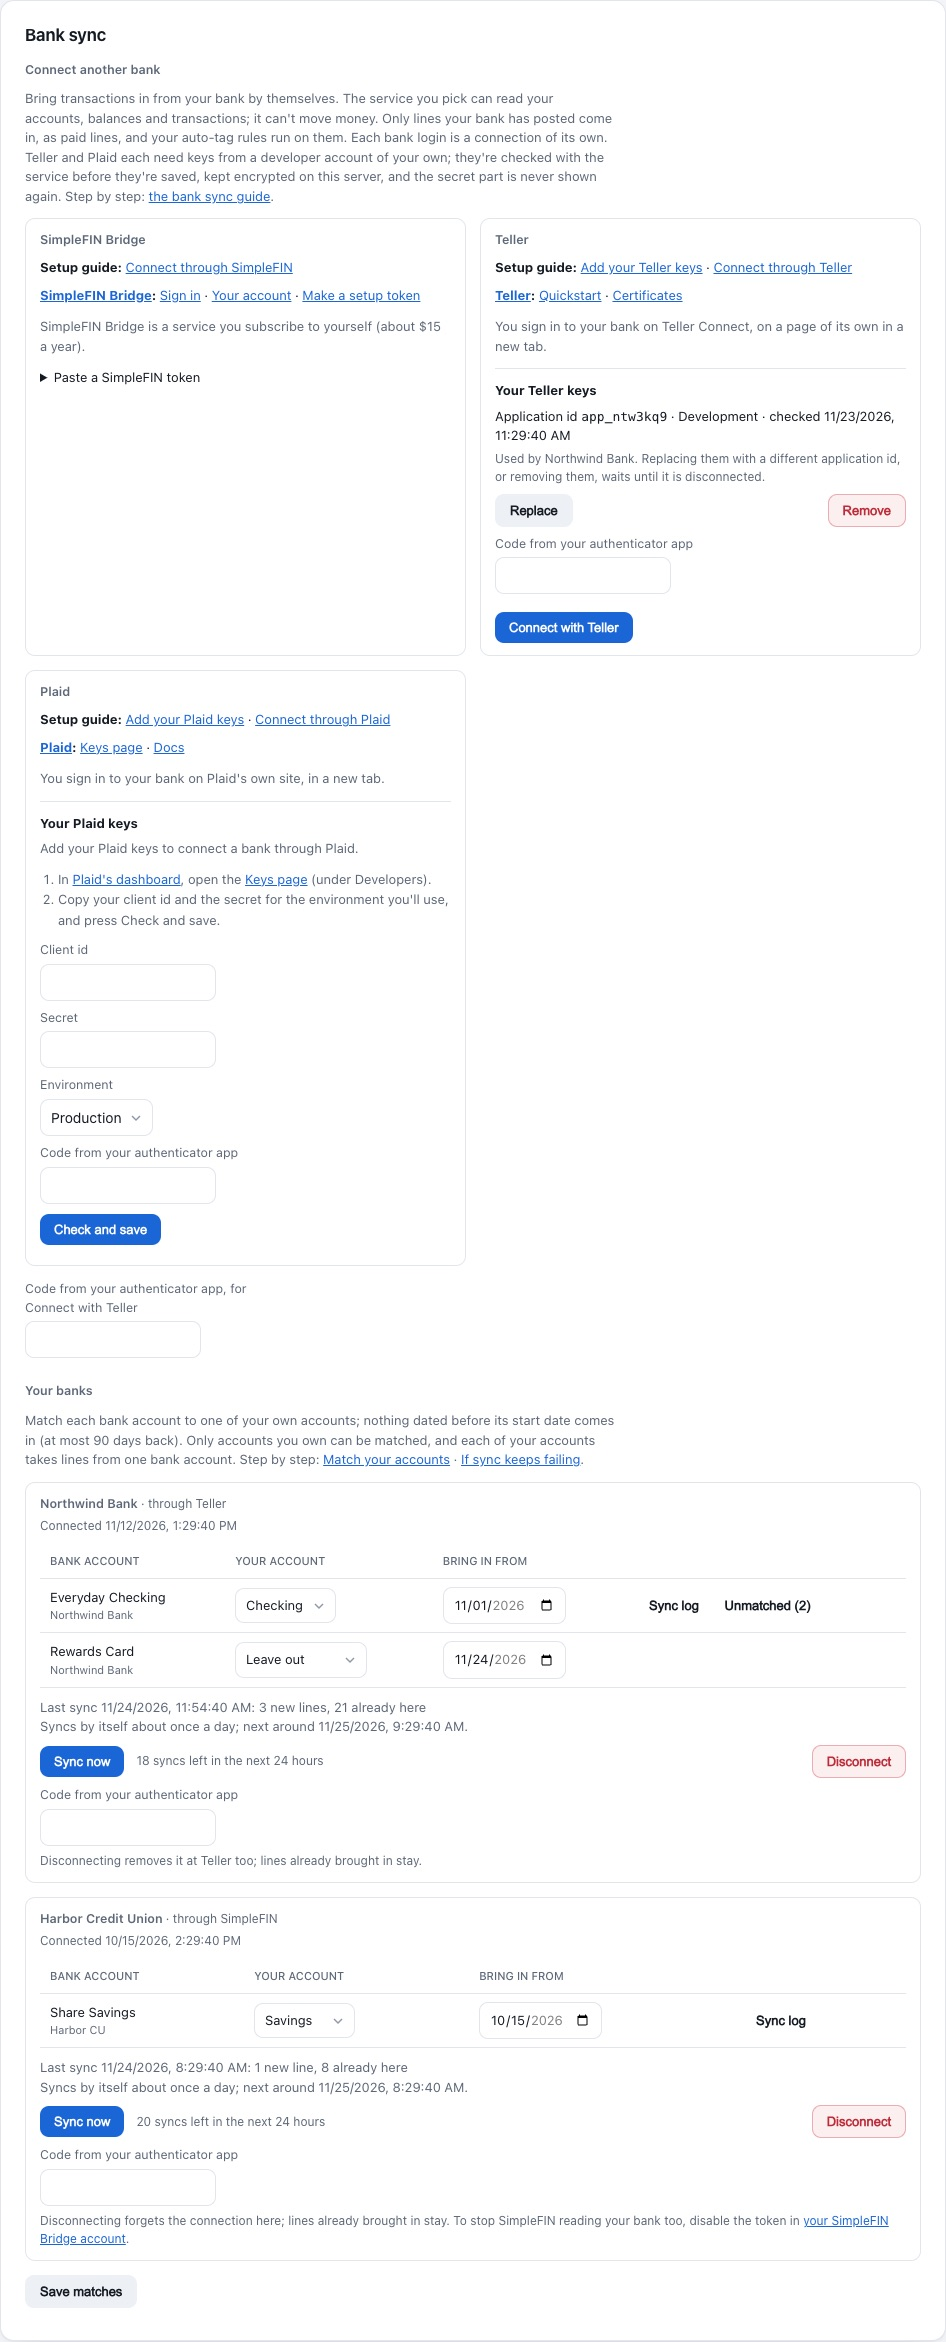
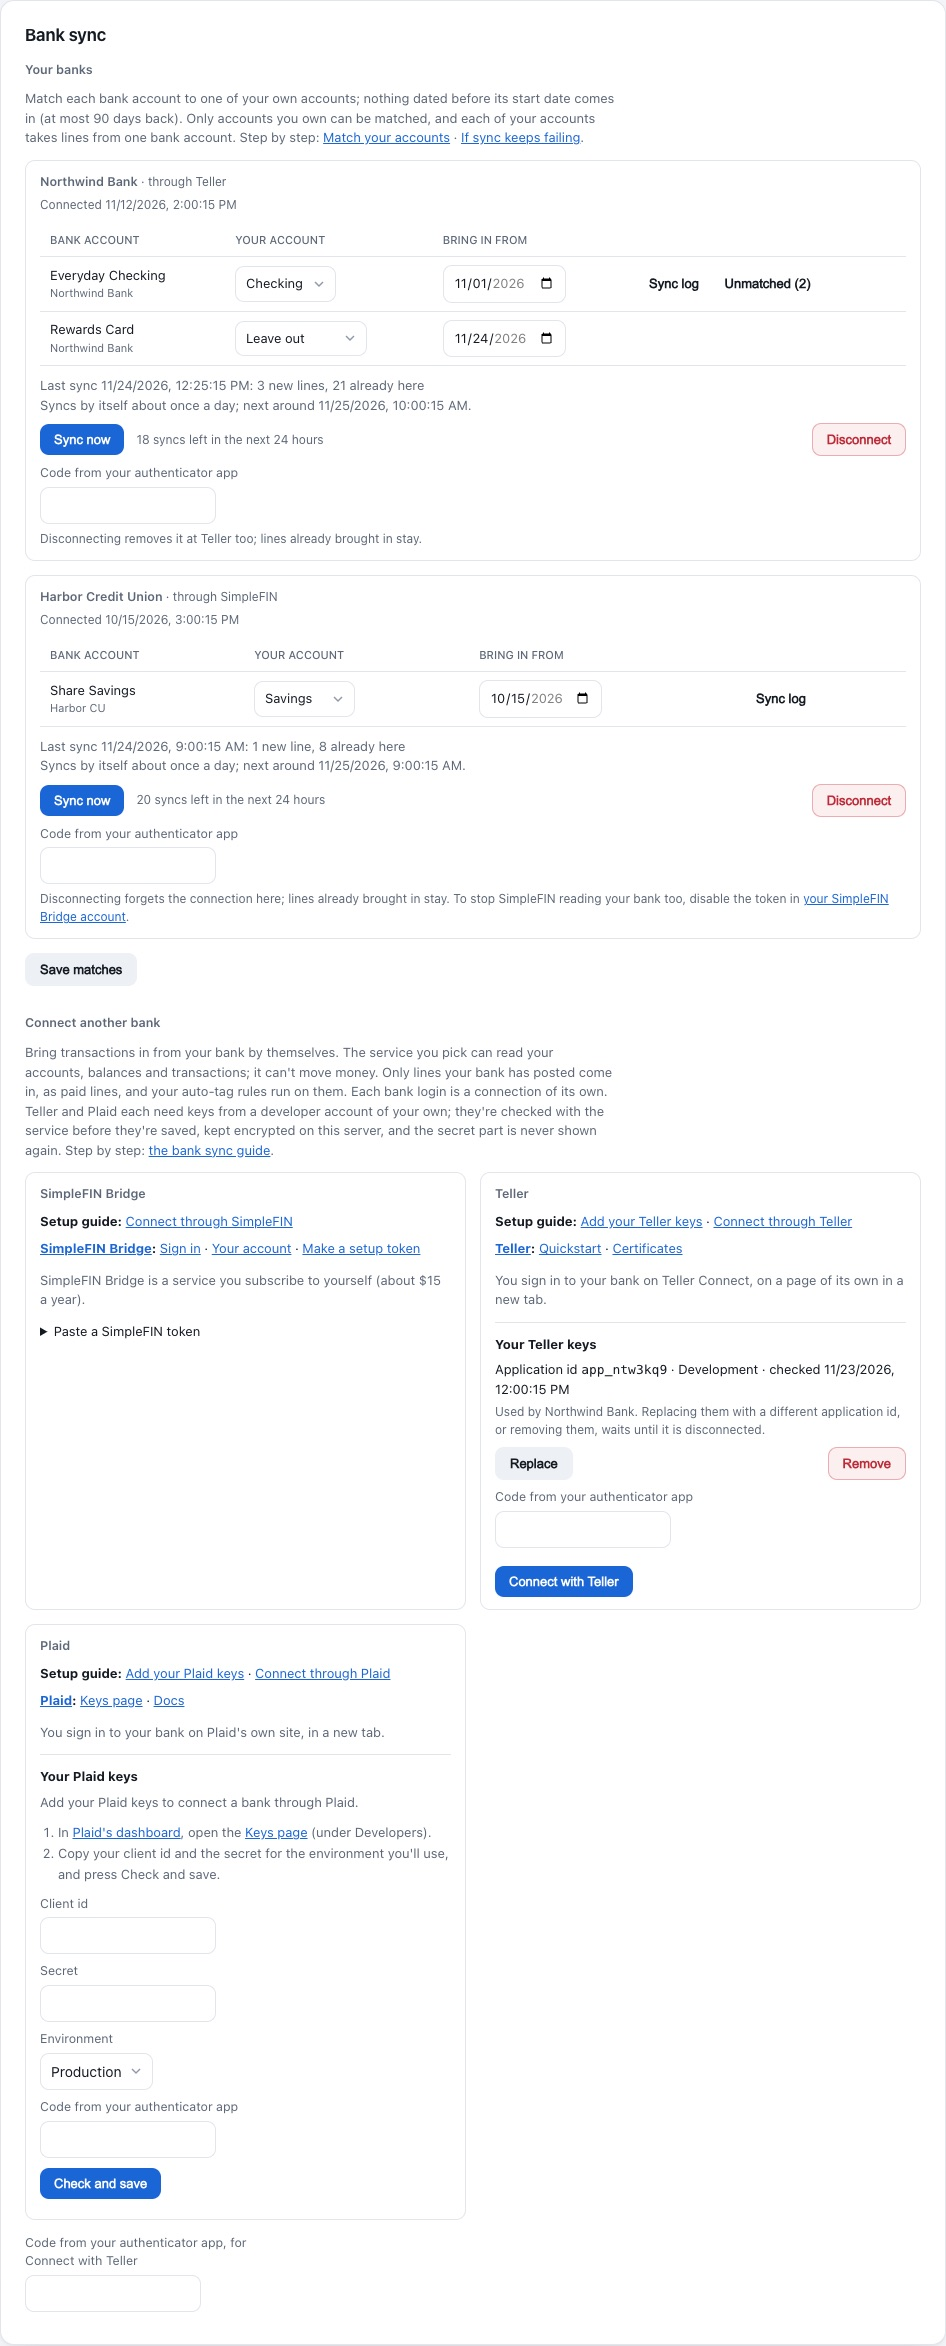
Web 1.117.0: your banks first, the cards to connect another below (#343)

diff --git a/apps/web/index.html b/apps/web/index.html
@@ -3164,7 +3164,7 @@ const WEB_VERSION = "1.117.0";
 //
 // When you bump WEB_VERSION, add the matching line here. Do not rewrite
 // history — only append new entries.
-// 1.117.0 (2026-11-24, claude+mkolakowski): (#342, #343) Settings → Bank sync: one card per provider (SimpleFIN Bridge, Teller, Plaid; _bankConnectHtml) holding its setup guide line (_bankGuideHtml from BANK_GUIDE_STEPS: Through SimpleFIN, Add your own Teller or Plaid keys, Through Teller or Plaid), its own pages (_bankProviderLinks(key, true) leaves the guide out), its keys (_bankKeysCardHtml now an inner .bank-keys block; _bankKeysHtml became _bankKeysShown) and its Connect. Connected banks follow under "Your banks" with Match your accounts and If sync keeps failing links. .bank-grid lays providers ~300px and banks ~620px each, side by side as room allows, and the Settings column widens to 1600px while Bank sync is shown on a window 1000px or wider. The shared connect code field names what it's for.
+// 1.117.0 (2026-11-24, claude+mkolakowski): (#342, #343) Settings → Bank sync: one card per provider (SimpleFIN Bridge, Teller, Plaid; _bankConnectHtml, after the connected banks) holding its setup guide line (_bankGuideHtml from BANK_GUIDE_STEPS: Through SimpleFIN, Add your own Teller or Plaid keys, Through Teller or Plaid), its own pages (_bankProviderLinks(key, true) leaves the guide out), its keys (_bankKeysCardHtml now an inner .bank-keys block; _bankKeysHtml became _bankKeysShown) and its Connect. Connected banks come first, under "Your banks", with Match your accounts and If sync keeps failing links. .bank-grid lays providers ~300px and banks ~620px each, side by side as room allows, and the Settings column widens to 1600px while Bank sync is shown on a window 1000px or wider. The shared connect code field names what it's for.
 // 1.116.1 (2026-11-24, claude+mkolakowski): (#336) Links to the bank sync guide on GitHub Pages. BANK_GUIDE is the guide's address; BANK_PROVIDERS entries carry `guide` (SimpleFIN: #through-simplefin) or a 'WalletWeather guide' link (Teller, Plaid: #add-your-own-teller-or-plaid-keys) that _bankProviderLinks draws, and Connect a bank says "Step by step: the bank sync guide".
 // 1.116.0 (2026-11-24, claude+mkolakowski): (#334) Bank sync setup links and a card per provider. BANK_PROVIDERS gains teller and plaid (name, home, links[]); _bankProviderLinks draws a provider's `links` when it has them. The Teller and Plaid key steps link to the provider's dashboard, quickstart, certificates and Keys pages (_bankLink). _bankConnectHtml draws Teller, Plaid and SimpleFIN Bridge each as a bordered .bank-provider card (title, provider links, what it does, its connect button; SimpleFIN's token form stays inside its card), the same look as the .bank-keys cards.
 // 1.115.3 (2026-11-23, claude+mkolakowski): (#292) two design calls from the code review: Settings and Admin open with a real <h1> in a .settings-nav wrapper that holds the heading and the tab list (it replaces the ::before text on .settings-tabs; on a wide window the wrapper is the sticky left column, the heading 26px; on a phone the heading is 22px above the scrolling tabs), and the wide-window active section in the list uses the 10% tint with --accent-ink like the other pills (it was left at 15% and --accent); a Calendar event with no category colour gets class uncat and shows its kind by a tint (green in, red out, an outline for a transfer; on a phone its colour bar takes the kind's colour).
@@ -10204,13 +10204,12 @@ async function loadBank() {
   }
   const conns = bankState.connections || [];
   const anyAccounts = conns.some(c => (c.accounts || []).length);
-  // One card per provider to set it up, then the banks already connected
-  // (#343, decided 2026-11-24: setup cards side by side, banks below).
+  // The banks already connected, then one card per provider to connect
+  // another (#343, decided 2026-11-24: cards side by side; the banks first).
   const providersHtml = _bankConnectHtml(conns.length > 0);
-  body.innerHTML = providersHtml
-    + (!providersHtml && bankState.enabled ? `<p style="color:var(--muted);font-size:13px;margin:0 0 16px">An admin hasn't let you connect ${conns.length ? 'another bank' : 'a bank of your own'}. They can in Admin → Users.</p>` : '')
-    + (conns.length ? `
-      <h3 class="backup-subhead" style="margin-top:${providersHtml ? 24 : 0}px">Your banks</h3>
+  const above = conns.length > 0 || shared.length > 0;
+  body.innerHTML = (conns.length ? `
+      <h3 class="backup-subhead" style="margin-top:0">Your banks</h3>
       <p style="color:var(--muted);margin:0 0 12px;font-size:13px">
         Match each bank account to one of your own accounts; nothing dated before its start date comes in
         (at most ${bankState.start_max_days} days back). Only accounts you own can be matched, and each of
@@ -10219,9 +10218,11 @@ async function loadBank() {
       <div class="bank-grid bank-conns">${conns.map(c => _bankConnHtml(c, owned)).join('')}</div>`
       + (anyAccounts ? `<div style="margin-top:12px"><button class="ghost" id="bankSaveBtn" onclick="bankSaveLinks()">Save matches</button></div>` : '')
     : '')
-    + (shared.length ? _bankSharedHtml(shared, conns.length > 0 || !!providersHtml) : '')
+    + (shared.length ? _bankSharedHtml(shared, conns.length > 0) : '')
     + (conns.length || shared.length ? '<div id="bankLog" class="hidden" style="margin-top:14px;max-width:720px"></div>' : '')
-    + (conns.length ? _bankCategoriesHtml() : '');
+    + (conns.length ? _bankCategoriesHtml() : '')
+    + (providersHtml ? `<div style="margin-top:${above ? 28 : 0}px">${providersHtml}</div>` : '')
+    + (!providersHtml && bankState.enabled ? `<p style="color:var(--muted);font-size:13px;margin:${above ? 16 : 0}px 0 0">An admin hasn't let you connect ${conns.length ? 'another bank' : 'a bank of your own'}. They can in Admin → Users.</p>` : '');
 }
 
 // Accounts someone shares with you that sync from their bank connection

diff --git a/CHANGELOG.md b/CHANGELOG.md
@@ -78,7 +78,7 @@ App version: **1.98.3** · Web version: **1.117.0** · Schema version: **39** ·
 
 ### Changed
 
-- **Bank sync's settings, a card per service, using a wide screen.** Settings → Bank sync now shows one card each for SimpleFIN Bridge, Teller and Plaid with everything to set it up: its guide, its pages, your keys (Teller and Plaid, no longer a separate section) and its Connect button. Your connected banks follow under *Your banks*. On a wide monitor the page widens and the cards sit side by side (the services up to three across, your banks two across); on a phone or a narrow window they stack as before (web 1.117.0).
+- **Bank sync's settings, a card per service, using a wide screen.** Settings → Bank sync now shows one card each for SimpleFIN Bridge, Teller and Plaid with everything to set it up: its guide, its pages, your keys (Teller and Plaid, no longer a separate section) and its Connect button. Your connected banks come first, under *Your banks*, with the cards to connect another below them. On a wide monitor the page widens and the cards sit side by side (the services up to three across, your banks two across); on a phone or a narrow window they stack as before (web 1.117.0).
 
 ## [1.98.3] — 2026-11-24
 
